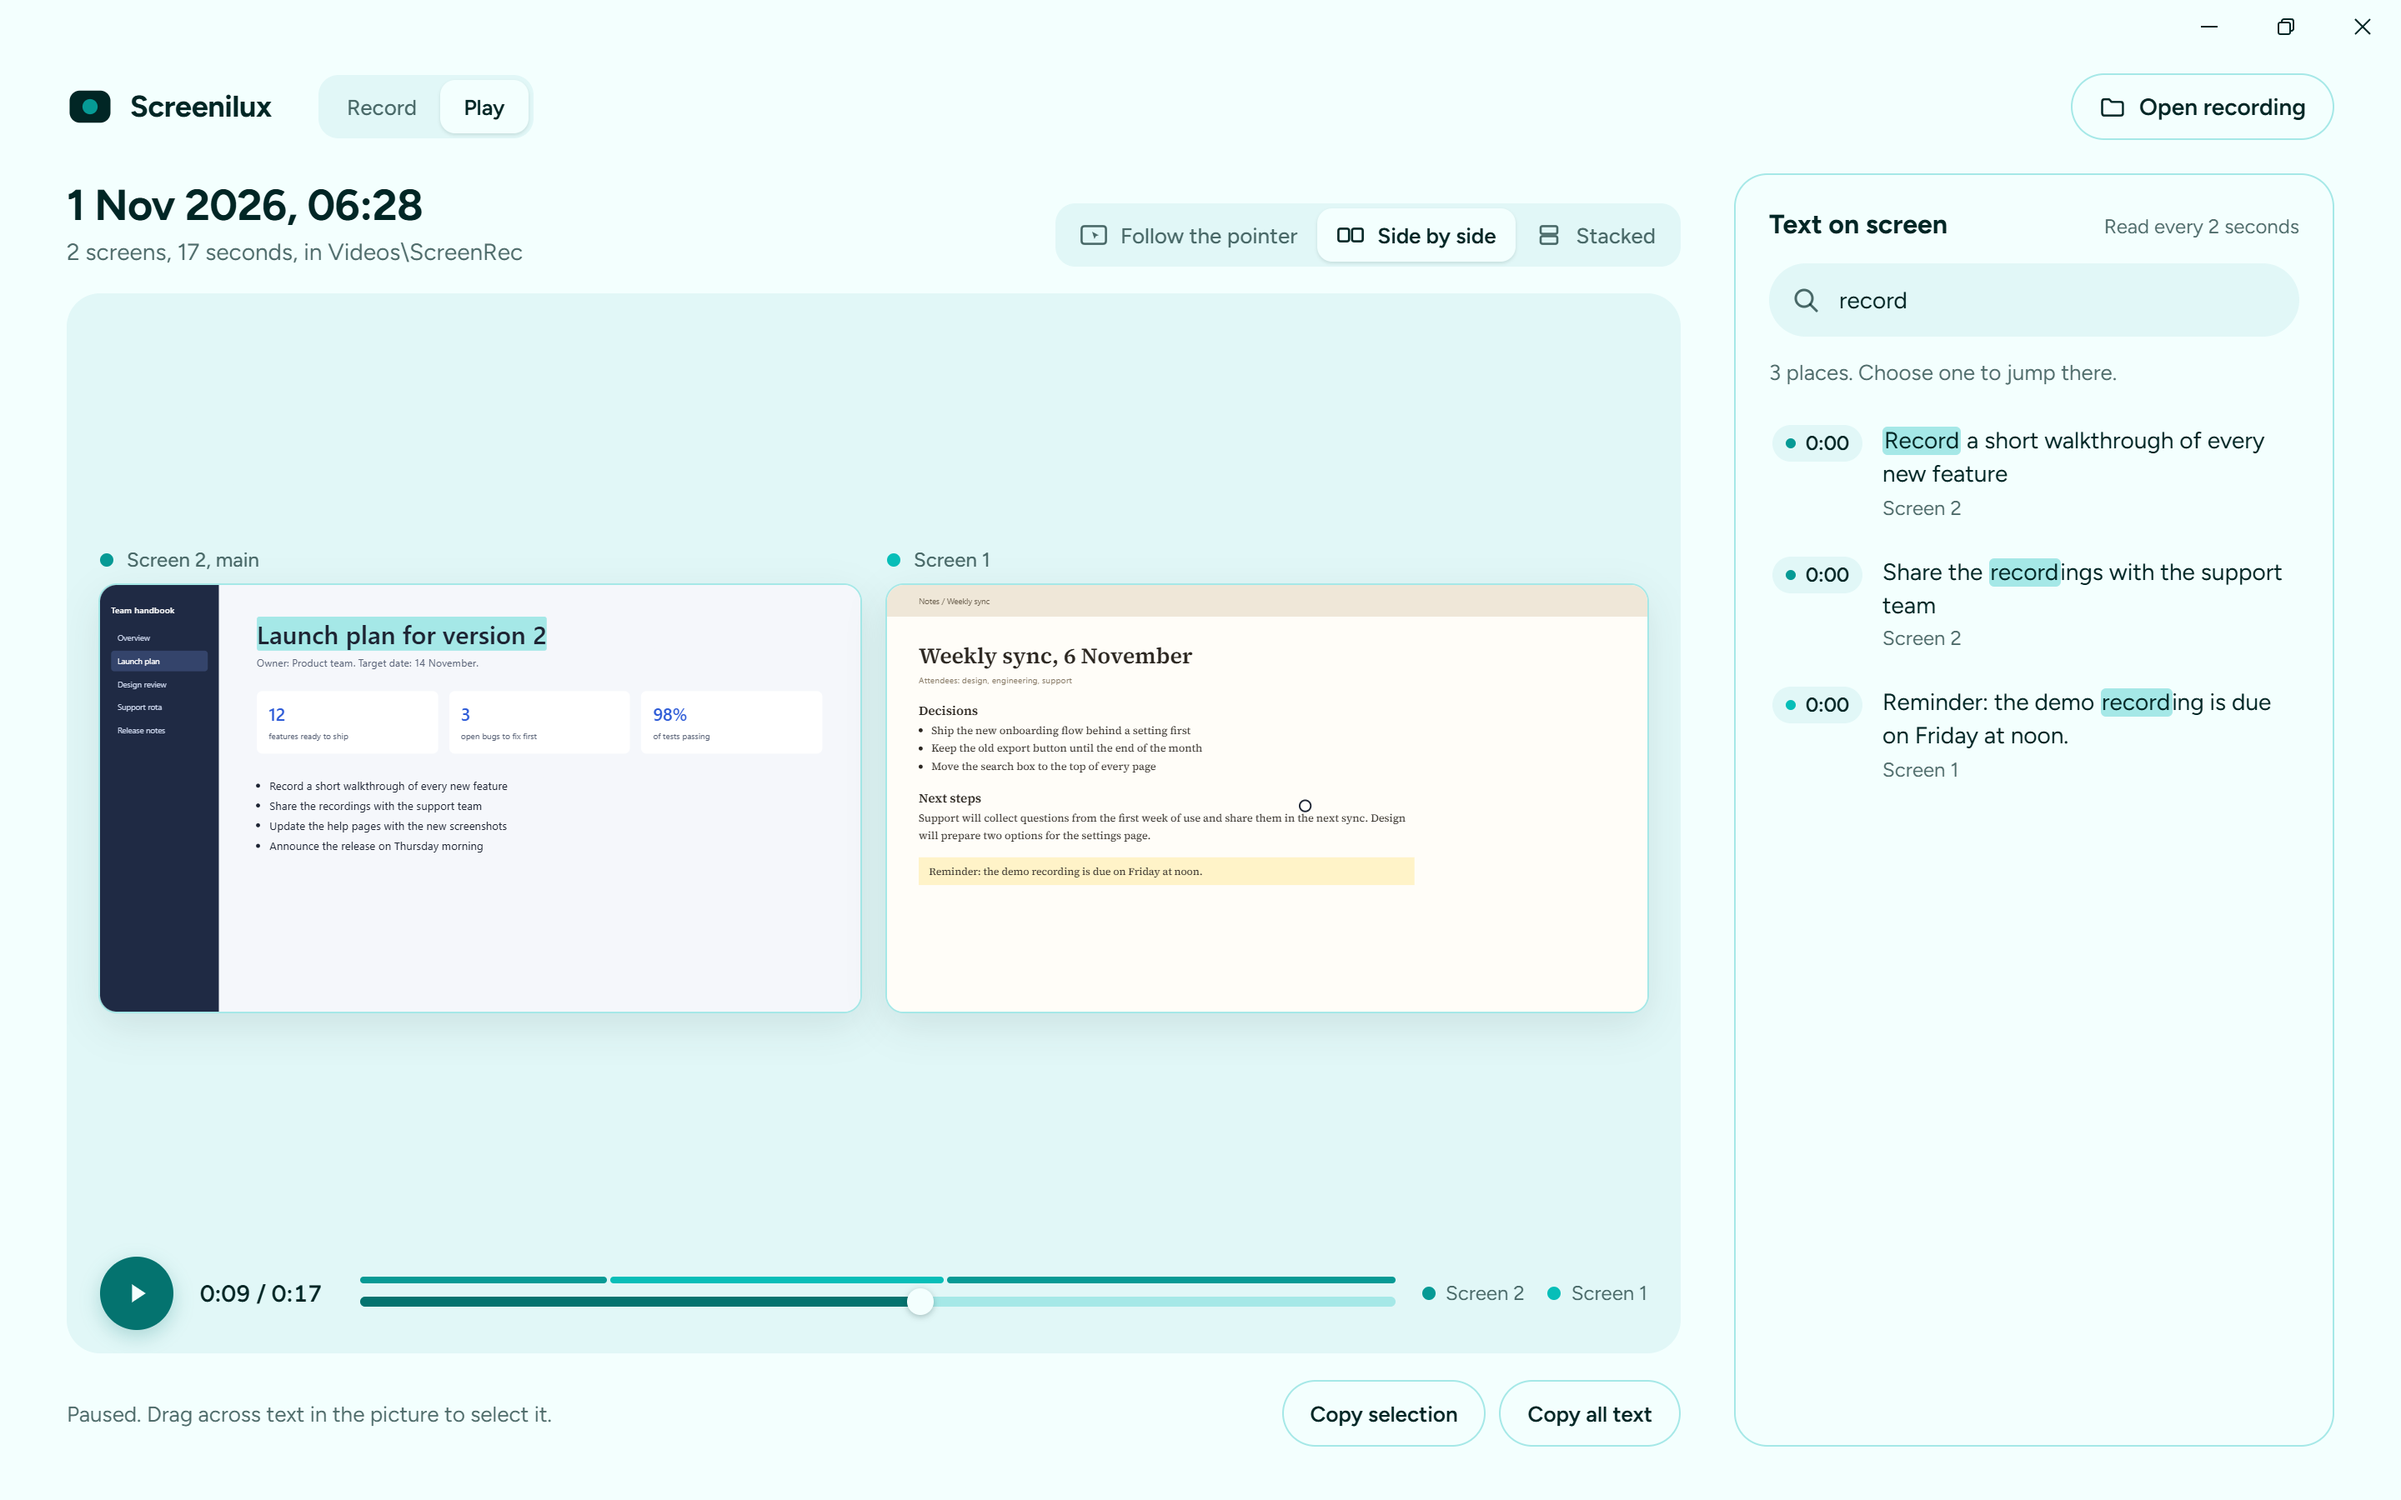
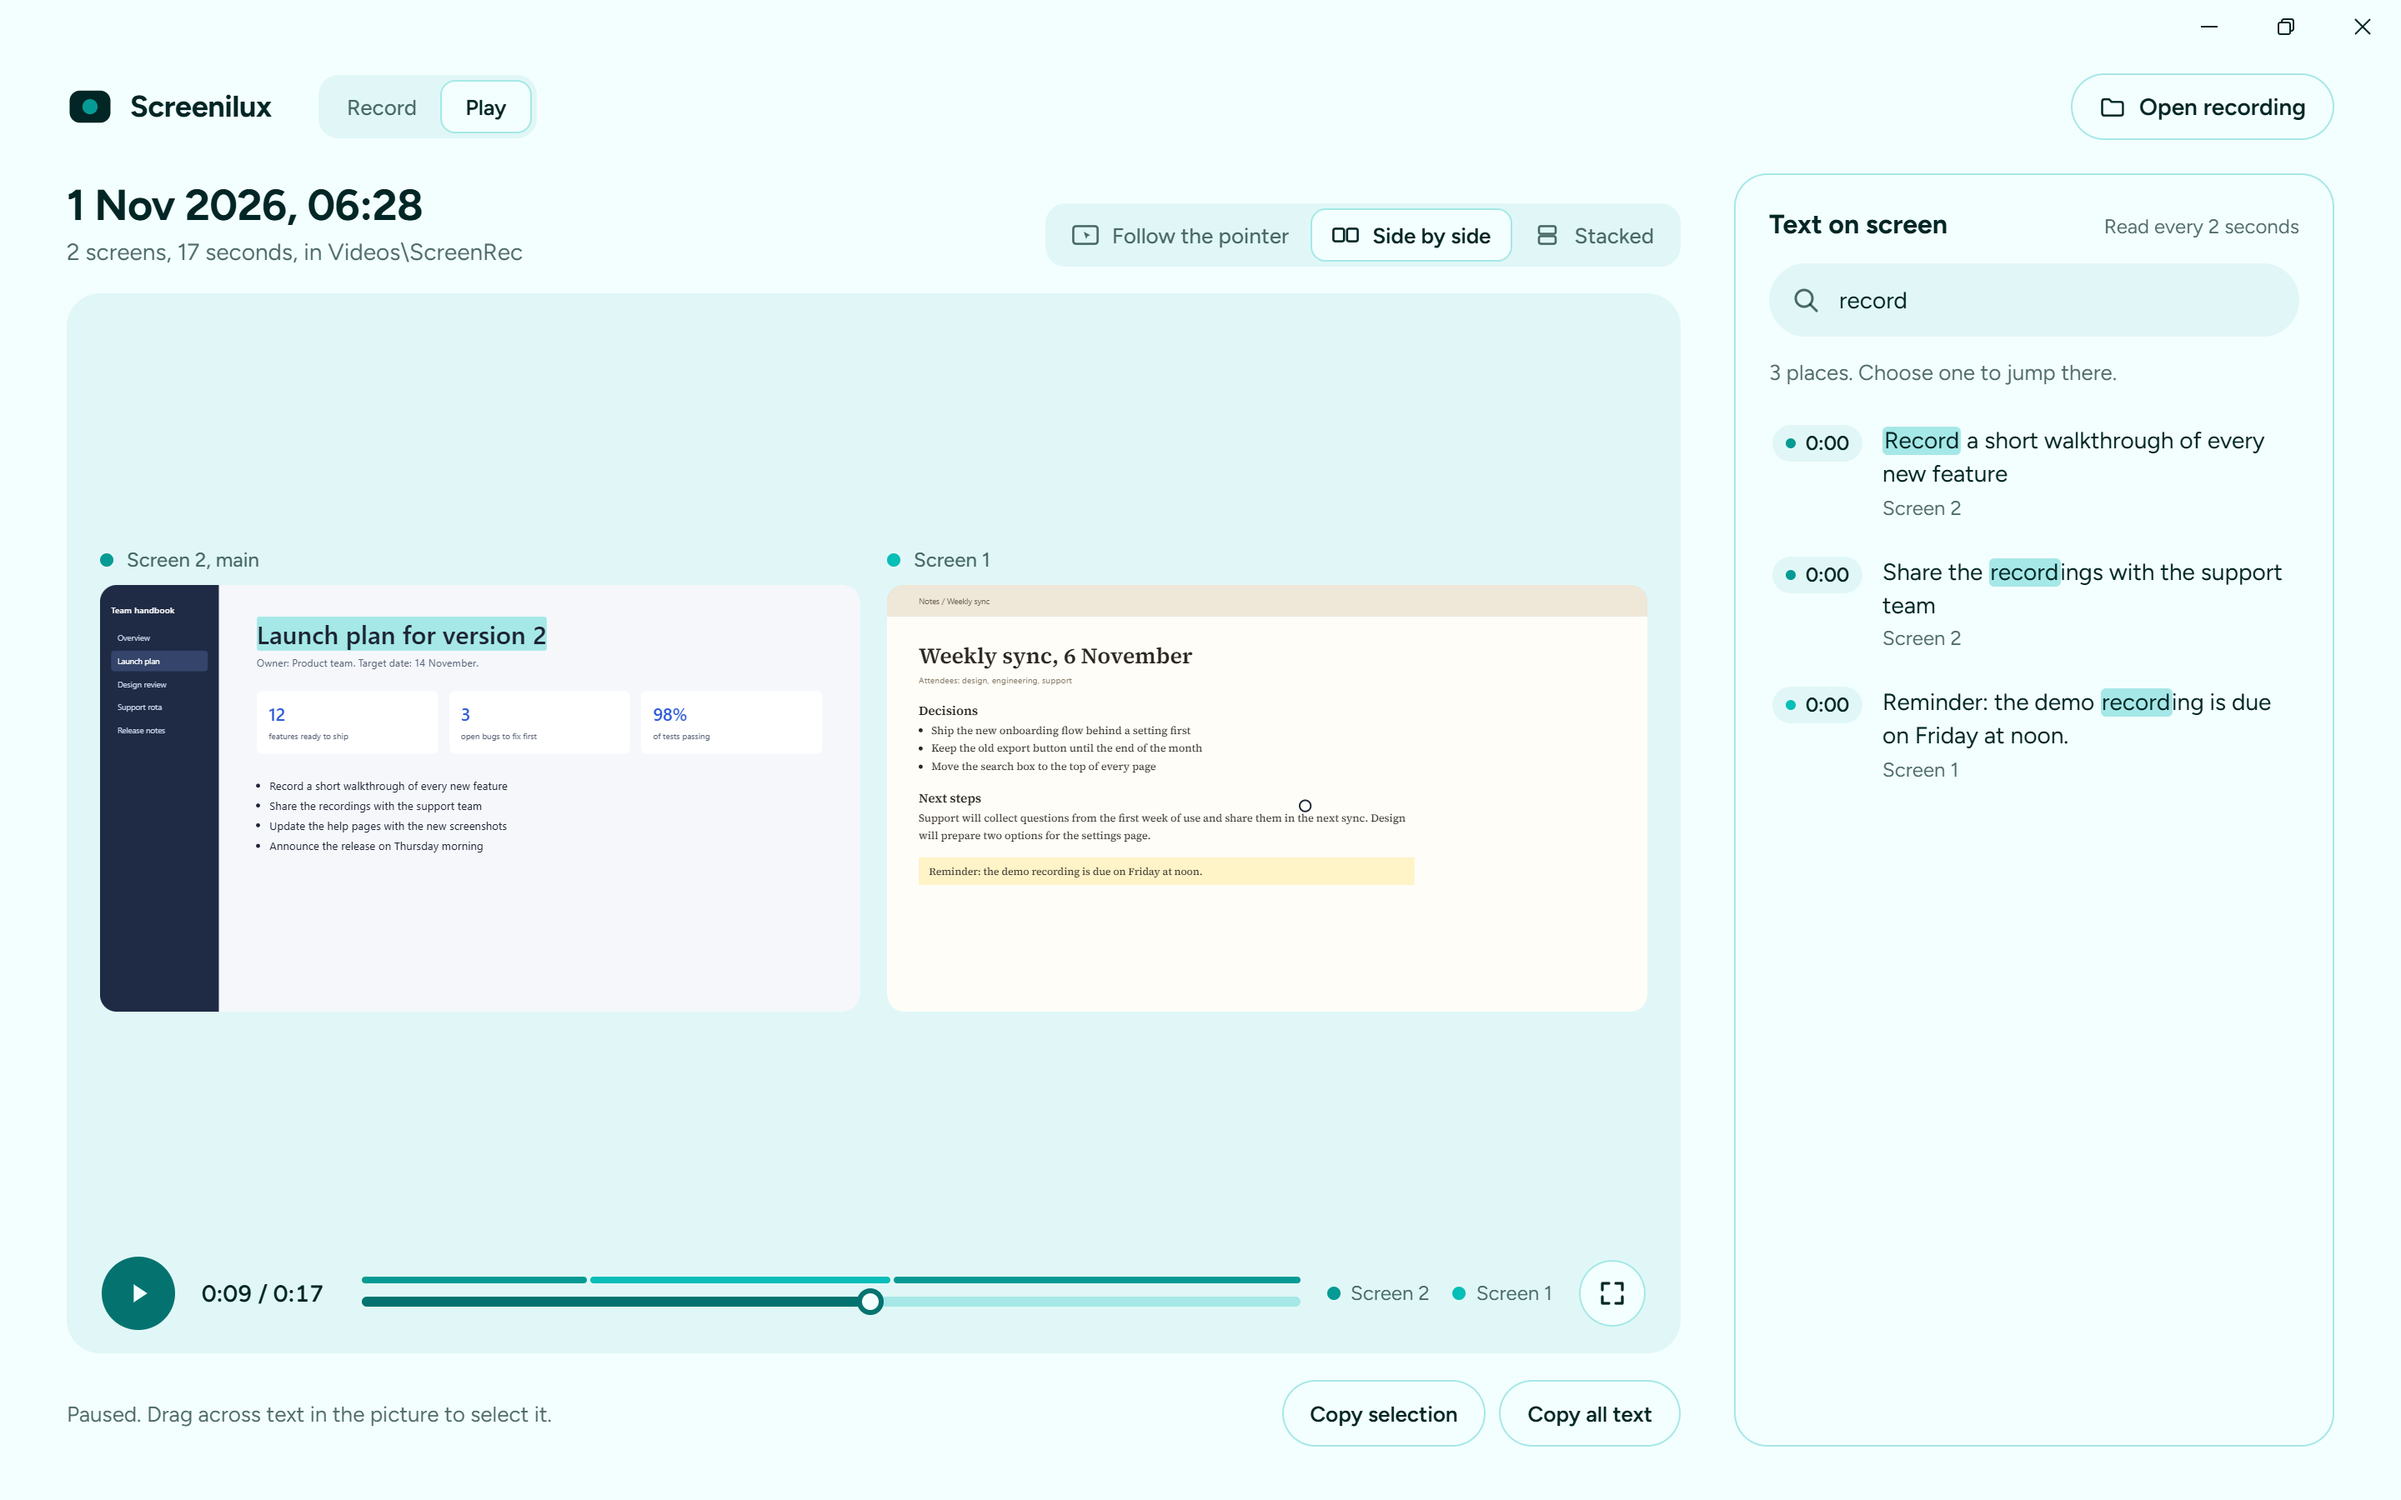
Show the latest Record and Play mockups, and full screen
Replace the README images with the updated mockups, add the full screen
view, and say how full screen works.

diff --git a/README.md b/README.md
@@ -31,8 +31,13 @@ in them.
   select and copy them.
 - **Search inside recordings.** Choose *Make text searchable*, then search for
   a word and jump to each place it appeared.
+- **Full screen.** Press F or double-click the picture: the recording fills
+  the screen and the controls float over it, out of the way while it plays.
+  Esc brings the window back.
 - **Open recordings your way:** double-click one, drop it on the window, or
   use *Open*.
+
+![Full screen, with the controls floating over a two-screen recording](docs/full-screen.png)
 
 ## How it differs from Loom
 
